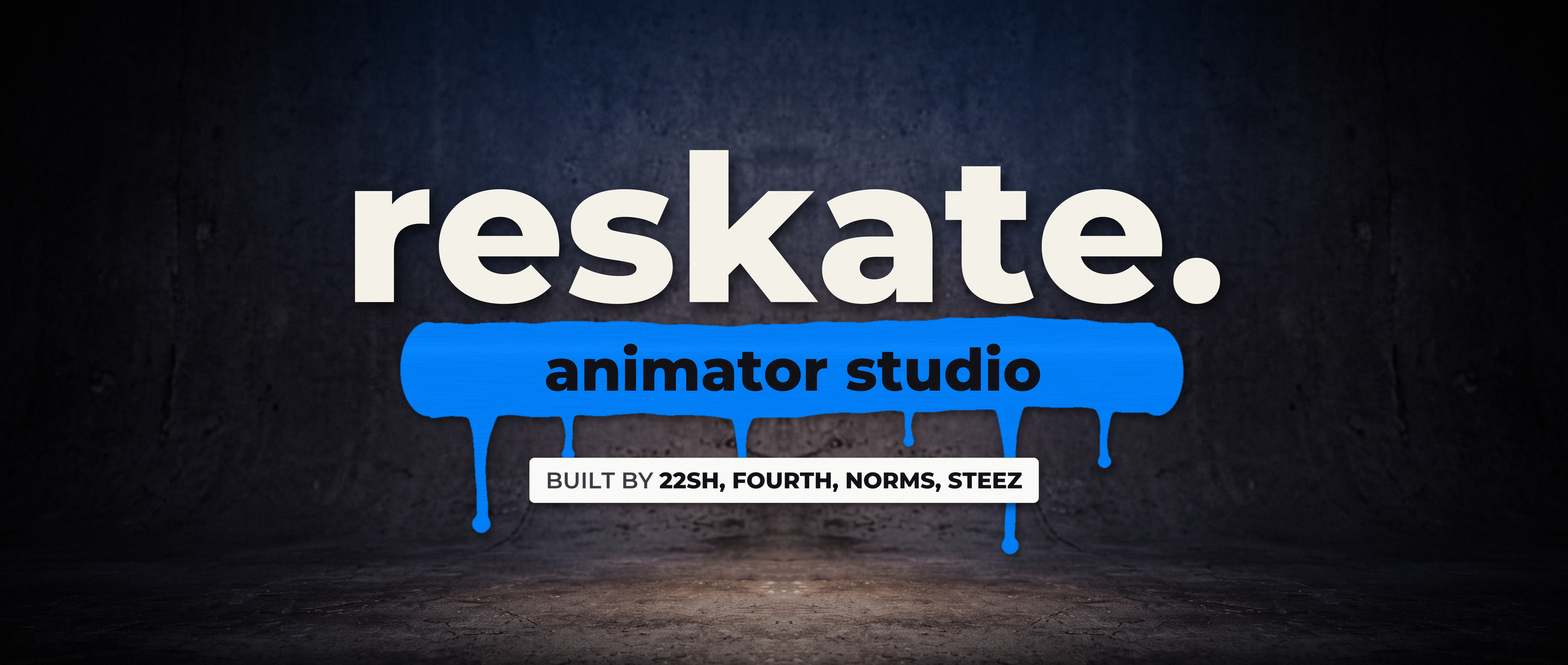
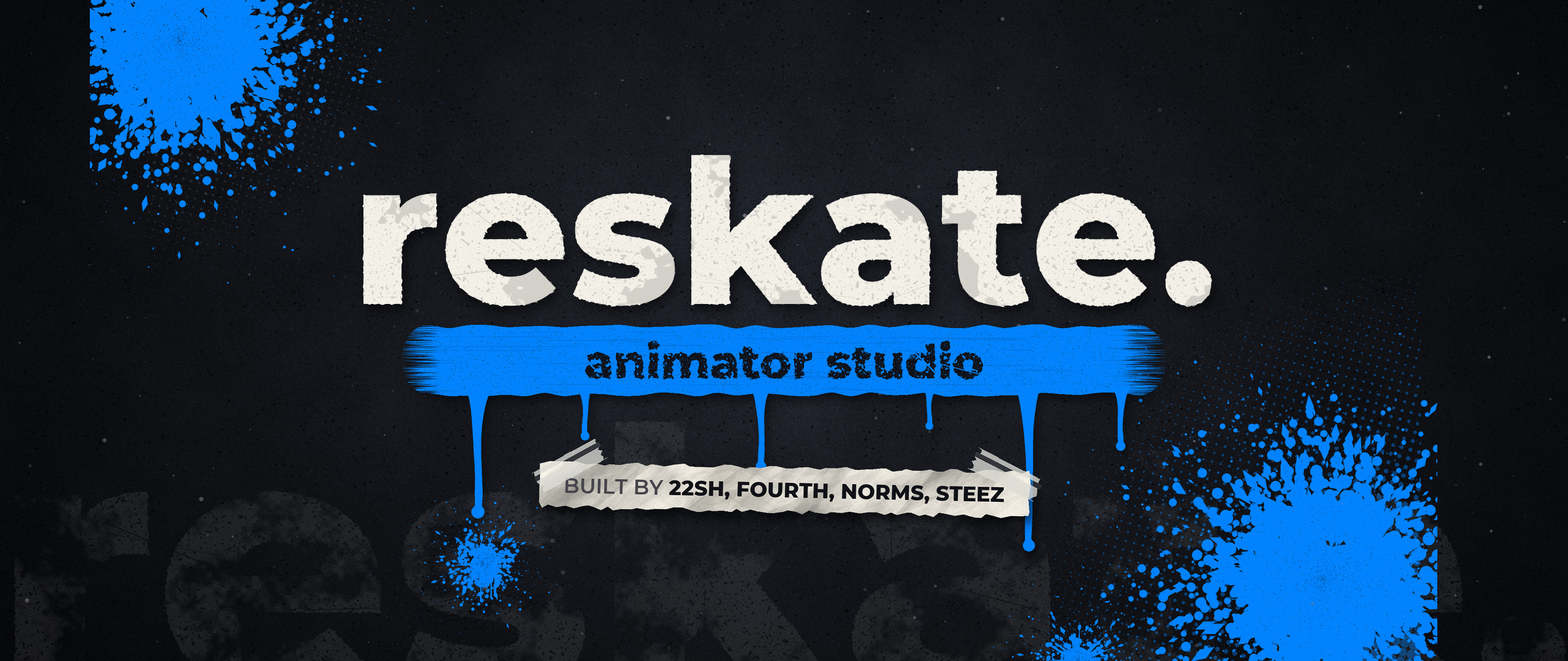
Loading picture in the market branding: grit wall, spray, worn wordmark, dry brush, torn paper

diff --git a/contrib/animator-studio/make_loading_gritty.py b/contrib/animator-studio/make_loading_gritty.py
@@ -1,0 +1,228 @@
+"""The Animator Studio's loading picture in the MARKET's own branding: its wall (dark concrete, grip-tape grit, blue spray
+in the corners, halftone, grey flecks, a huge worn word low across it), the reskate. wordmark printed and worn, the dry
+blue brush stroke with "animator studio" on it and paint running off it, and BUILT BY on torn paper. Made from the same
+pieces as the MARKET (market_art/make_market_art.py), so it is the same look.
+
+    python make_loading_gritty.py
+
+Writes "Animator Studio backdrop 6.png" and assets/animator_studio/loading.jpg (what ReSkate.dll is built with).
+"""
+import math
+import random
+import sys
+from pathlib import Path
+
+import numpy as np
+from PIL import Image, ImageDraw, ImageFilter, ImageFont
+
+HERE = Path(__file__).resolve().parent
+sys.path.insert(0, str(HERE / "market_art"))
+import make_market_art as art  # noqa: E402  (its pieces: spray, halftone, grey_dots, grunge_word, brush_stroke)
+
+REPO = HERE.parents[1]
+FONTS = REPO / "External" / "fonts"
+MARKET = REPO / "assets" / "animator_studio" / "market"
+OUT_FULL = r"C:\Users\Fourt\Documents\Reskate\Animator Studio backdrop 6.png"
+OUT_ASSET = REPO / "assets" / "animator_studio" / "loading.jpg"
+PREVIEW = Path(r"C:\Users\Fourt\AppData\Local\Temp\claude\C--Users-Fourt\2ab0674e-9ffe-4afb-a488-7a96406c2044\scratchpad\thumb")
+
+W, H = 3840, 1620           # 21:9, as the MARKET's wall
+SEEN = round(H * 16 / 9)    # what a 16:9 screen shows of it: the middle
+L0 = (W - SEEN) // 2        # its left edge
+BLUE = art.BLUE
+INK = (16, 18, 24)
+CREDITS = "22SH, FOURTH, NORMS, STEEZ"
+rnd = random.Random(24)
+
+
+def font(name, size):
+    return ImageFont.truetype(str(FONTS / name), size)
+
+
+def brush(width, height, seed):
+    """The MARKET's dry blue brush stroke (make_market_art.brush_stroke), its dry ends short: no streaks out at its sides."""
+    rng = np.random.default_rng(seed)
+    yy_, xx_ = np.mgrid[0:height, 0:width].astype(np.float32)
+    u, v_ = xx_ / width, (yy_ - height / 2) / (height / 2)
+    wob = lambda: np.asarray(Image.fromarray((rng.random((1, 40)) * 255).astype(np.uint8)).resize((width, 1), Image.BICUBIC), np.float32)[0] / 255 - 0.5
+    top_, bottom_ = 0.80 + 0.10 * wob(), 0.82 + 0.10 * wob()
+    # rounded off at its ends, so it does not end in a square
+    end = np.clip(np.minimum(u / 0.035, (1 - u) / 0.035), 0, 1)
+    reach = np.sqrt(np.clip(1 - (1 - end) ** 2, 0, 1))
+    inside = (v_ > -top_[None, :] * reach) & (v_ < bottom_[None, :] * reach)
+    streaks = np.asarray(Image.fromarray((rng.random((height, 8)) * 255).astype(np.uint8)).resize((width, height), Image.BICUBIC), np.float32) / 255
+    dry = np.clip(np.minimum(u / 0.05, (1 - u) / 0.06), 0, 1)
+    a = inside * np.clip((streaks - (1 - dry) * 0.9) * 3 + dry * 0.75, 0, 1)
+    a *= (rng.random((height, width)) > 0.03 * (1 - dry) + 0.008)
+    out = np.zeros((height, width, 4), np.uint8)
+    out[..., 0], out[..., 1], out[..., 2] = art.BLUE
+    out[..., 3] = (np.clip(a, 0, 1) * 255).astype(np.uint8)
+    return Image.fromarray(out)
+
+
+# ---- the wall, as the MARKET's ------------------------------------------------------------------------------
+T = art.T
+conc = np.asarray(Image.open(MARKET / "concrete.jpg").convert("L"), np.float32) / 255
+grip = np.asarray(Image.open(MARKET / "grip.jpg").convert("L"), np.float32) / 255
+c = np.tile(conc, (H // T + 1, W // T + 1))[:H, :W]
+g = np.tile(grip, (H // T + 1, W // T + 1))[:H, :W]
+v = 0.125 + 0.32 * (c - 0.5) + 0.26 * np.clip(g - 0.12, 0, 1)
+yy, xx = np.mgrid[0:H, 0:W].astype(np.float32)
+light = np.exp(-(((xx - W * 0.5) / (W * 0.42)) ** 2 + ((yy - H * 0.42) / (H * 0.75)) ** 2))
+edge = np.clip(1.15 - 0.55 * np.sqrt(((xx - W / 2) / (SEEN * 0.62)) ** 2 + ((yy - H * 0.45) / (H * 0.65)) ** 2), 0.42, 1)
+v = v * (0.72 + 0.42 * light) * edge
+wall = Image.fromarray(np.clip(np.dstack([v * 255 * 0.84, v * 255 * 0.92, v * 255 * 1.12]), 0, 255).astype(np.uint8)).convert("RGBA")
+# The huge worn word low across it, barely there.
+ghost = art.grunge_word("reskate.", FONTS / "Montserrat-ExtraBold.ttf", 900, 7, 0.36)
+ghost.putalpha(ghost.getchannel("A").point(lambda p: int(p * 0.075)))
+wall.alpha_composite(ghost, (int(W * 0.5 - ghost.width / 2), int(H - ghost.height + 120)))
+# Halftone: blue in the low right, grey in the top left; spray in those corners and one low down; grey flecks.
+wall.alpha_composite(art.halftone(1400, 1000, 22, (1400, 1000), 1150, BLUE, 105), (L0 + SEEN - 1400 + 120, H - 1000))
+wall.alpha_composite(art.halftone(900, 700, 20, (0, 0), 800, (170, 178, 196), 30), (L0 - 120, 0))
+wall.alpha_composite(art.spray(1400, 1000, 11, [(1120, 760, 300, 3800), (520, 960, 100, 600)], drips=7), (L0 + SEEN - 1400 + 160, H - 1000 + 40))
+wall.alpha_composite(art.spray(1100, 900, 12, [(220, 220, 270, 3200)], drips=5), (L0 - 260, -120))
+wall.alpha_composite(art.spray(600, 480, 13, [(300, 230, 95, 700)], drips=3), (L0 + int(SEEN * 0.14), H - 470))
+wall.alpha_composite(art.grey_dots(W, H, 14, 420))
+canvas = wall
+
+# ---- the lockup, big in the middle ----------------------------------------------------------------------------------
+WORD_W = SEEN * 0.74
+probe = ImageDraw.Draw(Image.new("L", (10, 10)))
+size = 700
+while probe.textlength("reskate.", font=font("Montserrat-ExtraBold.ttf", size)) > WORD_W:
+    size -= 4
+word = art.grunge_word("reskate.", FONTS / "Montserrat-ExtraBold.ttf", size, 3, 0.10)  # printed, worn
+# Still whole: the worn print over the solid letters (86% where it flaked), so it reads at a glance. The solid letters are
+# set where grunge_word sets them (30 px in from its box).
+wf_ = font("Montserrat-ExtraBold.ttf", size)
+box_ = probe.textbbox((0, 0), "reskate.", font=wf_)
+clean = Image.new("L", word.size, 0)
+ImageDraw.Draw(clean).text((30 - box_[0], 30 - box_[1]), "reskate.", font=wf_, fill=255)
+solid = np.asarray(clean, np.float32)
+worn = np.asarray(word.getchannel("A"), np.float32)
+word.putalpha(Image.fromarray(np.maximum(worn, solid * 0.86).astype(np.uint8)))
+# grunge_word leaves 30 px round the letters; its box is the letters' own.
+band_w, band_h = int(word.width * 0.86), int(size * 0.42)
+gap1, gap2 = int(size * 0.06), int(size * 0.30)
+strip_h = int(size * 0.22)
+block_h = word.height - 60 + gap1 + band_h + gap2 + strip_h
+top = int(H / 2 - block_h / 2) - 30
+wx = int(W / 2 - word.width / 2)
+shadow = Image.new("RGBA", word.size, (0, 0, 0, 0))
+shadow.putalpha(word.getchannel("A").point(lambda p: int(p * 0.55)))
+shadow_layer = Image.new("RGBA", (W, H), (0, 0, 0, 0))
+shadow_layer.alpha_composite(shadow, (wx + int(size * 0.018), top + int(size * 0.03)))
+canvas = Image.alpha_composite(canvas, shadow_layer.filter(ImageFilter.GaussianBlur(size * 0.025)))
+paper_white = (244, 241, 233)
+word_rgb = Image.new("RGBA", word.size, paper_white + (255,))
+word_rgb.putalpha(word.getchannel("A"))
+canvas.alpha_composite(word_rgb, (wx, top))
+word_bottom = top + word.height - 30
+
+# The blue: the MARKET's dry brush stroke, laid under the word.
+bx, by = int(W / 2 - band_w / 2), word_bottom + gap1
+stroke = brush(band_w, band_h, 41)
+# Drips running off its bottom: gather under it, run thin, end in a bead. Drawn at twice the size, blurred and cut.
+S = 2
+dm = Image.new("L", (band_w * S, (band_h + int(size * 0.9)) * S), 0)
+dd = ImageDraw.Draw(dm)
+for at, length, width in ((0.10, 0.75, 0.050), (0.24, 0.30, 0.034), (0.47, 0.48, 0.040), (0.69, 0.24, 0.030), (0.82, 0.95, 0.046), (0.94, 0.36, 0.036)):
+    x = band_w * at
+    y0 = band_h * 0.80
+    run = band_h * length * 2.0
+    w0 = band_h * width * 1.6
+    neck = w0 * 4.0
+    left, right = [], []
+    for j in range(41):
+        u = j / 40
+        y = y0 + run * u
+        wdt = w0 + (neck - w0) * (1 - u) ** 5 + w0 * 0.15 * math.exp(-((u - 0.85) / 0.08) ** 2)
+        wob = w0 * 0.12 * math.sin(u * 7 + at * 20)
+        left.append(((x - wdt / 2 + wob) * S, y * S))
+        right.append(((x + wdt / 2 + wob) * S, y * S))
+    dd.polygon(left + right[::-1], fill=255)
+    bead = w0 * 0.95
+    dd.ellipse([(x - bead) * S, (y0 + run - bead * 0.9) * S, (x + bead) * S, (y0 + run + bead * 1.1) * S], fill=255)
+dm = dm.filter(ImageFilter.GaussianBlur(3)).point(lambda p: 255 if p > 118 else 0).resize((band_w, band_h + int(size * 0.9)), Image.LANCZOS)
+drips = Image.new("RGBA", dm.size, BLUE + (0,))
+drips.putalpha(dm)
+paint = Image.new("RGBA", dm.size, (0, 0, 0, 0))
+paint.alpha_composite(drips)
+paint.alpha_composite(stroke, (0, 0))
+paint_shadow = Image.new("RGBA", paint.size, (0, 0, 0, 0))
+paint_shadow.putalpha(paint.getchannel("A").point(lambda p: int(p * 0.45)))
+layer = Image.new("RGBA", (W, H), (0, 0, 0, 0))
+layer.alpha_composite(paint_shadow, (bx + 8, by + 14))
+canvas = Image.alpha_composite(canvas, layer.filter(ImageFilter.GaussianBlur(10)))
+canvas.alpha_composite(paint, (bx, by))
+# Its words, printed in ink, worn a little.
+label = art.grunge_word("animator studio", FONTS / "Montserrat-ExtraBold.ttf", int(band_h * 0.56), 5, 0.06)
+label_rgb = Image.new("RGBA", label.size, INK + (255,))
+label_rgb.putalpha(label.getchannel("A"))
+canvas.alpha_composite(label_rgb, (int(W / 2 - label.width / 2), int(by + band_h * 0.5 - label.height / 2)))
+
+# ---- BUILT BY, on a strip of torn white paper, a little crooked ------------------------------------------------------
+paper_tex = Image.open(MARKET / "paper_white.jpg").convert("RGB")
+cs = int(strip_h * 0.48)
+light_f, bold_f = font("Montserrat-SemiBold.ttf", cs), font("Montserrat-ExtraBold.ttf", cs)
+w1 = probe.textlength("BUILT BY ", font=light_f)
+w2 = probe.textlength(CREDITS, font=bold_f)
+pad = int(strip_h * 0.55)
+pw, ph = int(w1 + w2 + 2 * pad), strip_h
+M = 60
+sheet = Image.new("RGBA", (pw + 2 * M, ph + 2 * M), (0, 0, 0, 0))
+torn = Image.new("L", sheet.size, 0)
+pts = []
+x = M
+while x < M + pw:  # the top edge, torn
+    pts.append((x, M + rnd.uniform(-5, 5)))
+    x += rnd.uniform(10, 26)
+pts.append((M + pw + rnd.uniform(-6, 6), M + rnd.uniform(-4, 4)))
+for t in (0.3, 0.6, 0.9):
+    pts.append((M + pw + rnd.uniform(-7, 7), M + ph * t))
+x = M + pw
+while x > M:  # the bottom edge, torn
+    pts.append((x, M + ph + rnd.uniform(-6, 6)))
+    x -= rnd.uniform(10, 26)
+for t in (0.9, 0.6, 0.3):
+    pts.append((M + rnd.uniform(-7, 7), M + ph * t))
+ImageDraw.Draw(torn).polygon(pts, fill=255)
+tex = paper_tex.resize((max(pw + 2 * M, 1024), max(ph + 2 * M, 1024))).crop((0, 0, pw + 2 * M, ph + 2 * M)).convert("RGBA")
+tex.putalpha(torn)
+sheet.alpha_composite(tex)
+sd = ImageDraw.Draw(sheet)
+sd.text((M + pad, M + ph / 2), "BUILT BY ", font=light_f, fill=(70, 70, 76, 255), anchor="lm")
+sd.text((M + pad + w1, M + ph / 2), CREDITS, font=bold_f, fill=INK + (255,), anchor="lm")
+paper_only = sheet.copy()
+# Two strips of tape over its ends, their ends torn, a sheen along them.
+for tx, ang in ((M - 20, 30), (M + pw - 150, -26)):
+    tw, th = 180, 58
+    tape = Image.new("RGBA", (tw, th), (0, 0, 0, 0))
+    edge_pts = [(x, rnd.uniform(0, 2)) for x in range(0, tw + 1, 18)]
+    edge_pts += [(tw - rnd.uniform(0, 12), y) for y in range(0, th + 1, 7)]
+    edge_pts += [(x, th - rnd.uniform(0, 2)) for x in range(tw, -1, -18)]
+    edge_pts += [(rnd.uniform(0, 12), y) for y in range(th, -1, -7)]
+    ImageDraw.Draw(tape).polygon(edge_pts, fill=(222, 222, 216, 200))
+    ImageDraw.Draw(tape).rectangle([0, th * 0.22, tw, th * 0.40], fill=(255, 255, 255, 30))
+    tape = tape.rotate(ang, expand=True, resample=Image.BICUBIC)
+    sheet.alpha_composite(tape, (int(tx), int(M - tape.height / 2 + 6)))
+sheet = sheet.rotate(-1.2, expand=True, resample=Image.BICUBIC)
+paper_only = paper_only.rotate(-1.2, expand=True, resample=Image.BICUBIC)
+sh = Image.new("RGBA", sheet.size, (0, 0, 0, 0))
+sh.putalpha(paper_only.getchannel("A").point(lambda p: int(p * 0.6)))
+sy = by + band_h + gap2 - M
+sx = int(W / 2 - sheet.width / 2)
+layer = Image.new("RGBA", (W, H), (0, 0, 0, 0))
+layer.alpha_composite(sh, (sx + 10, sy + 18))
+canvas = Image.alpha_composite(canvas, layer.filter(ImageFilter.GaussianBlur(12)))
+canvas.alpha_composite(sheet, (sx, sy))
+
+# ---- grain over all of it, as the MARKET's wall has ---------------------------------------------------------------
+final = canvas.convert("RGB")
+noise = np.asarray(Image.effect_noise((W, H), 20)).astype(np.float32) - 128
+final = Image.fromarray(np.clip(np.asarray(final).astype(np.float32) + noise[..., None] * 0.14, 0, 255).astype(np.uint8))
+final.save(OUT_FULL)
+final.resize((3072, round(3072 * H / W)), Image.LANCZOS).save(OUT_ASSET, quality=93, subsampling=0, optimize=True)
+final.crop((L0, 0, L0 + SEEN, H)).resize((1280, 720), Image.LANCZOS).save(PREVIEW / "loading_gritty_169.jpg", quality=90)
+final.crop((int(W * 0.30), int(H * 0.22), int(W * 0.62), int(H * 0.78))).save(PREVIEW / "loading_gritty_zoom.jpg", quality=90)
+print("ok", size, OUT_FULL)
